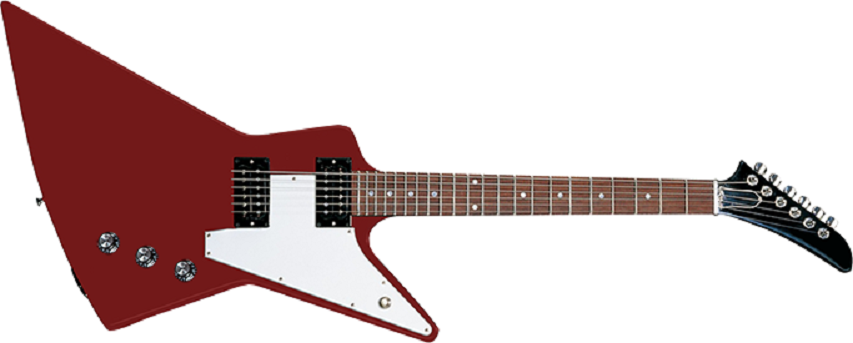
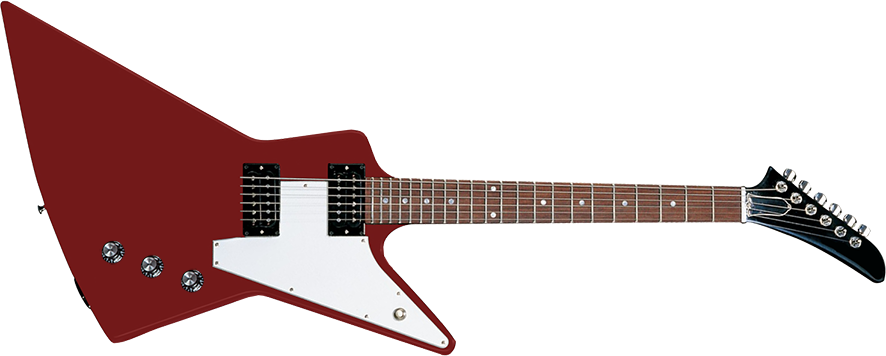
Сноски к частям гитары с позиционированием линий и текста. Шестеренки вместо крестиков для смены параметра через список выбранных параметров. Выкинул старый хлам. Нормальные картинки для цветов.

diff --git a/MusicShare/Content/Script/Designer/designer.js b/MusicShare/Content/Script/Designer/designer.js
@@ -115,6 +115,7 @@
 
         parameterModel.isOverviewMode = ko.observable(true);
         parameterModel.isFormSelected = undefined;
+        parameterModel.isFormSelecting = ko.observable(false);
         parameterModel.currentEditingParameter = ko.observable();
         parameterModel.currentAvailableSubparameters = ko.observableArray(null);
         parameterModel.currentEditingSubparameter = ko.observable(null);
@@ -122,6 +123,7 @@
         parameterModel.resultImageBundles = undefined;
         parameterModel.designerImageBundles = data.designerImageBundles;
         parameterModel.predefinedGuitars = data.predefinedGuitars;
+        parameterModel.parameterArrows = data.parameterArrows;
         parameterModel.subparameters = getSubparameters();
         parameterModel.globalParameters = getGlobalParameters();
         
@@ -177,12 +179,21 @@
             })[0];
             return parameterValue ? parameterValue.name : undefined;
         };
-        parameterModel.dropSelectedParameter = function(subparameter) {
-            parameterModel.selectedParametersValues[subparameter.id](undefined);
+        parameterModel.changeSelectedParameter = function (subparameter) {
+            var globalParameterId;
+            Object.keys(parameterModel.globalParameters).forEach(function (globalParameterKey) {
+                if (subparameter.parentId == globalParameterKey) {
+                    globalParameterId = globalParameterKey;
+                }
+            });
+            setEditingParameter(globalParameterId);
+            setEditingSubparameter(subparameter.id);
+            parameterModel.isOverviewMode(false);
         };
         parameterModel.editFormParameter = function() {
             setEditingParameter(musGround.const.bodyParameterId);
             setEditingSubparameter(musGround.const.formSubparameterId);
+            parameterModel.isFormSelecting(true);
             parameterModel.isOverviewMode(false);
         }
         parameterModel.globalparameterHasAnyValue = function (parameterId) {
@@ -200,6 +211,25 @@
             return data.parameters.filter(function (e) {
                 return e.parentId == parameterId;
             });
+        }
+        parameterModel.getArrow = function (parameterId) {
+            var parameterArrow;
+            var parameterArrows = parameterModel.parameterArrows.filter(function (parameterArrow) {
+                return parameterArrow.parameterId == parameterId;
+            });
+            if (parameterArrows.length === 1) {
+                parameterArrow = parameterArrows[0];
+            } else {
+                parameterArrow = parameterArrows.filter(function (parameterArrow) {
+                    return parameterArrow.formId === parameterModel.selectedParametersValues[musGround.const.formSubparameterId]();
+                })[0];
+                if (!parameterArrow) {
+                    parameterArrow = parameterArrows.filter(function (parameterArrow) {
+                        return !parameterArrow.formId;
+                    })[0];
+                }
+            }
+            return parameterArrow;
         }
 
         parameterModel.init = function() {

diff --git a/MusicShare/Content/Css/Designer/Designer.css b/MusicShare/Content/Css/Designer/Designer.css
@@ -8,6 +8,15 @@
     overflow: hidden;
     min-height: 300px;
 }
+.designer__full-block {
+    width: 100%;
+    height: 100%;
+}
+.designer__full-block-flex {
+    display: flex;
+    align-items: center;
+    justify-content: center;
+}
 .designer__block {
     width: 100%;
     height: 100%;
@@ -102,7 +111,7 @@
     height: 100%;
     width: 100%;
 }
-.designer__select-form > div {
+.designer__select-form > .designer__guitar-shadow {
     height: 275px;
     width: 852px;
     background: url('/Content/Image/SelectBodyForm_Normal.png') no-repeat center;
@@ -114,24 +123,53 @@
     bottom: 0;
     left: 0;
 }
+.designer__select-form > .designer__guitar-shadow:hover {
+    background-image: url('/Content/Image/SelectBodyForm_Hover.png');
+}
 @media screen and (max-width: 1400px) {
-    .designer__select-form > div,
-    .designer__select-form > div:hover {
+    .designer__select-form > .designer__guitar-shadow,
+    .designer__select-form > .designer__guitar-shadow:hover {
         height: 200px;
         width: 600px;
     }
 }
 @media screen and (max-width: 1000px) {
-    .designer__select-form > div,
-    .designer__select-form > div:hover {
+    .designer__select-form > .designer__guitar-shadow,
+    .designer__select-form > .designer__guitar-shadow:hover {
         height: 150px;
         width: 450px;
     }
 }
-.designer__select-form > div:hover {
-    background-image: url('/Content/Image/SelectBodyForm_Hover.png');
+.designer__selecting-form {
+    max-height: 600px;
+    max-width: 600px;
+    text-align: center;
 }
-
+.designer-form__form-img {
+    margin-right: 85px;
+    cursor: pointer;
+    opacity: 0.75;
+}
+.designer-form__form-img:last-of-type {
+    margin-right: 0;
+}
+.designer-form__form-img:hover {
+    opacity: 1;
+}
+.parameter-arrow {
+    position: absolute;
+    z-index: 100;
+}
+.parameter-arrow-text {
+    position: absolute;
+    z-index: 100;
+    cursor: pointer;
+}
+.overview {
+    position: relative;
+    display: flex;
+    align-items: center;
+}
 .result-images {
     position: relative;
     width: 900px;
@@ -216,14 +254,14 @@
 .selected-parameters__drop-parameter {
     position: absolute;
     right: 0;
-    margin-top: -22px;
-    font-size: 21px;
-    font-weight: bold;
+    width: 18px;
+    height: 18px;
+    margin-top: -18px;
     cursor: pointer;
-    color: #808080;
+    background: url('/Content/Image/ChangeValue.png') no-repeat center;
 }
 .selected-parameters__drop-parameter:hover {
-    color: #820017;
+    background-image: url('/Content/Image/ChangeValue_Hover.png')
 }
 .selected-parameters__subparameter {
     font-weight: bold;

diff --git a/BusinessLogic/DaoEntities/ParameterArrow.cs b/BusinessLogic/DaoEntities/ParameterArrow.cs
@@ -1,0 +1,53 @@
+using System;
+using Core.TransportTypes;
+using DAO;
+using DAO.Attributes;
+
+namespace BusinessLogic.DaoEntities {
+    public class ParameterArrow : AbstractEntity<ParameterArrow> {
+        public ParameterArrow(string tableName) : base(tableName) {}
+
+        public ParameterArrow() : base("ParameterArrow") {}
+
+        public enum Fields {
+            [DbType(typeof (Int32))]
+            Id,
+            [DbType(typeof (Int32))]
+            ParameterId,
+            [DbType(typeof (Int32?))]
+            FormId,
+            [DbType(typeof (Int32))]
+            ArrowLeft,
+            [DbType(typeof (Int32))]
+            ArrowTop,
+            [DbType(typeof (Int32))]
+            TextLeft,
+            [DbType(typeof (Int32))]
+            TextTop,
+            [DbType(typeof (String))]
+            Url
+        }
+
+        public int Id { get; set; }
+        public int ParameterId { get; set; }
+        public int? FormId { get; set; }
+        public int ArrowLeft { get; set; }
+        public int ArrowTop { get; set; }
+        public int TextLeft { get; set; }
+        public int TextTop { get; set; }
+        public string Url { get; set; }
+
+        public ParameterArrowDto ToDto() {
+            return new ParameterArrowDto {
+                Id = Id,
+                ParameterId = ParameterId,
+                FormId = FormId,
+                ArrowLeft = ArrowLeft,
+                ArrowTop = ArrowTop,
+                TextLeft = TextLeft,
+                TextTop = TextTop,
+                Url = Url
+            };
+        }
+    }
+}

diff --git a/MusicShare/Models/Designer/DesignerModel.cs b/MusicShare/Models/Designer/DesignerModel.cs
@@ -37,6 +37,7 @@ namespace MusicShareWeb.Models {
         public List<ParameterModel> Parameters { get; set; }
         public List<DesignerImageModel> DesignerImageBundles { get; set; }
         public List<PredefinedGuitarDto> PredefinedGuitars { get; set; }
+        public List<ParameterArrowDto> ParameterArrows { get; set; }
 
         public DesignerModel() {
             var parameters = ServiceManager<IBusinessLogic>.Instance.Service.GetParameters();
@@ -44,6 +45,7 @@ namespace MusicShareWeb.Models {
             var incompatibleParameters = ServiceManager<IBusinessLogic>.Instance.Service.GetIncompatibleParameters();
             var designerImages = ServiceManager<IBusinessLogic>.Instance.Service.GetDesignerImages();
             PredefinedGuitars = ServiceManager<IBusinessLogic>.Instance.Service.GetPredefinedGuitars();
+            ParameterArrows = ServiceManager<IBusinessLogic>.Instance.Service.GetParameterArrows();
             Parameters = parameters.Select(p => new ParameterModel {
                 Id = p.Id,
                 ParentId = p.ParentId,

diff --git a/Core/TransportTypes/ParameterArrowDto.cs b/Core/TransportTypes/ParameterArrowDto.cs
@@ -1,0 +1,12 @@
+namespace Core.TransportTypes {
+    public class ParameterArrowDto {
+        public int Id { get; set; }
+        public int ParameterId { get; set; }
+        public int? FormId { get; set; }
+        public int ArrowLeft { get; set; }
+        public int ArrowTop { get; set; }
+        public int TextLeft { get; set; }
+        public int TextTop { get; set; }
+        public string Url { get; set; }
+    }
+}

diff --git a/BusinessLogic/Providers/DesignerProvider.cs b/BusinessLogic/Providers/DesignerProvider.cs
@@ -50,5 +50,12 @@ namespace BusinessLogic.Providers {
                 .Select(p => p.ToDto())
                 .ToList();
         }
+        public List<ParameterArrowDto> GetParameterArrows() {
+            return new ParameterArrow()
+                .Select()
+                .GetData()
+                .Select(p => p.ToDto())
+                .ToList();
+        }
     }
 }

diff --git a/BusinessLogic/BusinessLogic.cs b/BusinessLogic/BusinessLogic.cs
@@ -40,5 +40,8 @@ namespace BusinessLogic {
         public List<PredefinedGuitarDto> GetPredefinedGuitars() {
             return _designerProvider.GetPredefinedGuitars();
         }
+        public List<ParameterArrowDto> GetParameterArrows() {
+            return _designerProvider.GetParameterArrows();
+        }
     }
 }

diff --git a/BusinessLogic/Interfaces/IDesignerProvider.cs b/BusinessLogic/Interfaces/IDesignerProvider.cs
@@ -8,5 +8,6 @@ namespace BusinessLogic.Interfaces {
         List<IncompatibleParameterDto> GetIncompatibleParameters();
         List<DesignerImageTransportType> GetDesignerImages();
         List<PredefinedGuitarDto> GetPredefinedGuitars();
+        List<ParameterArrowDto> GetParameterArrows();
     }
 }
